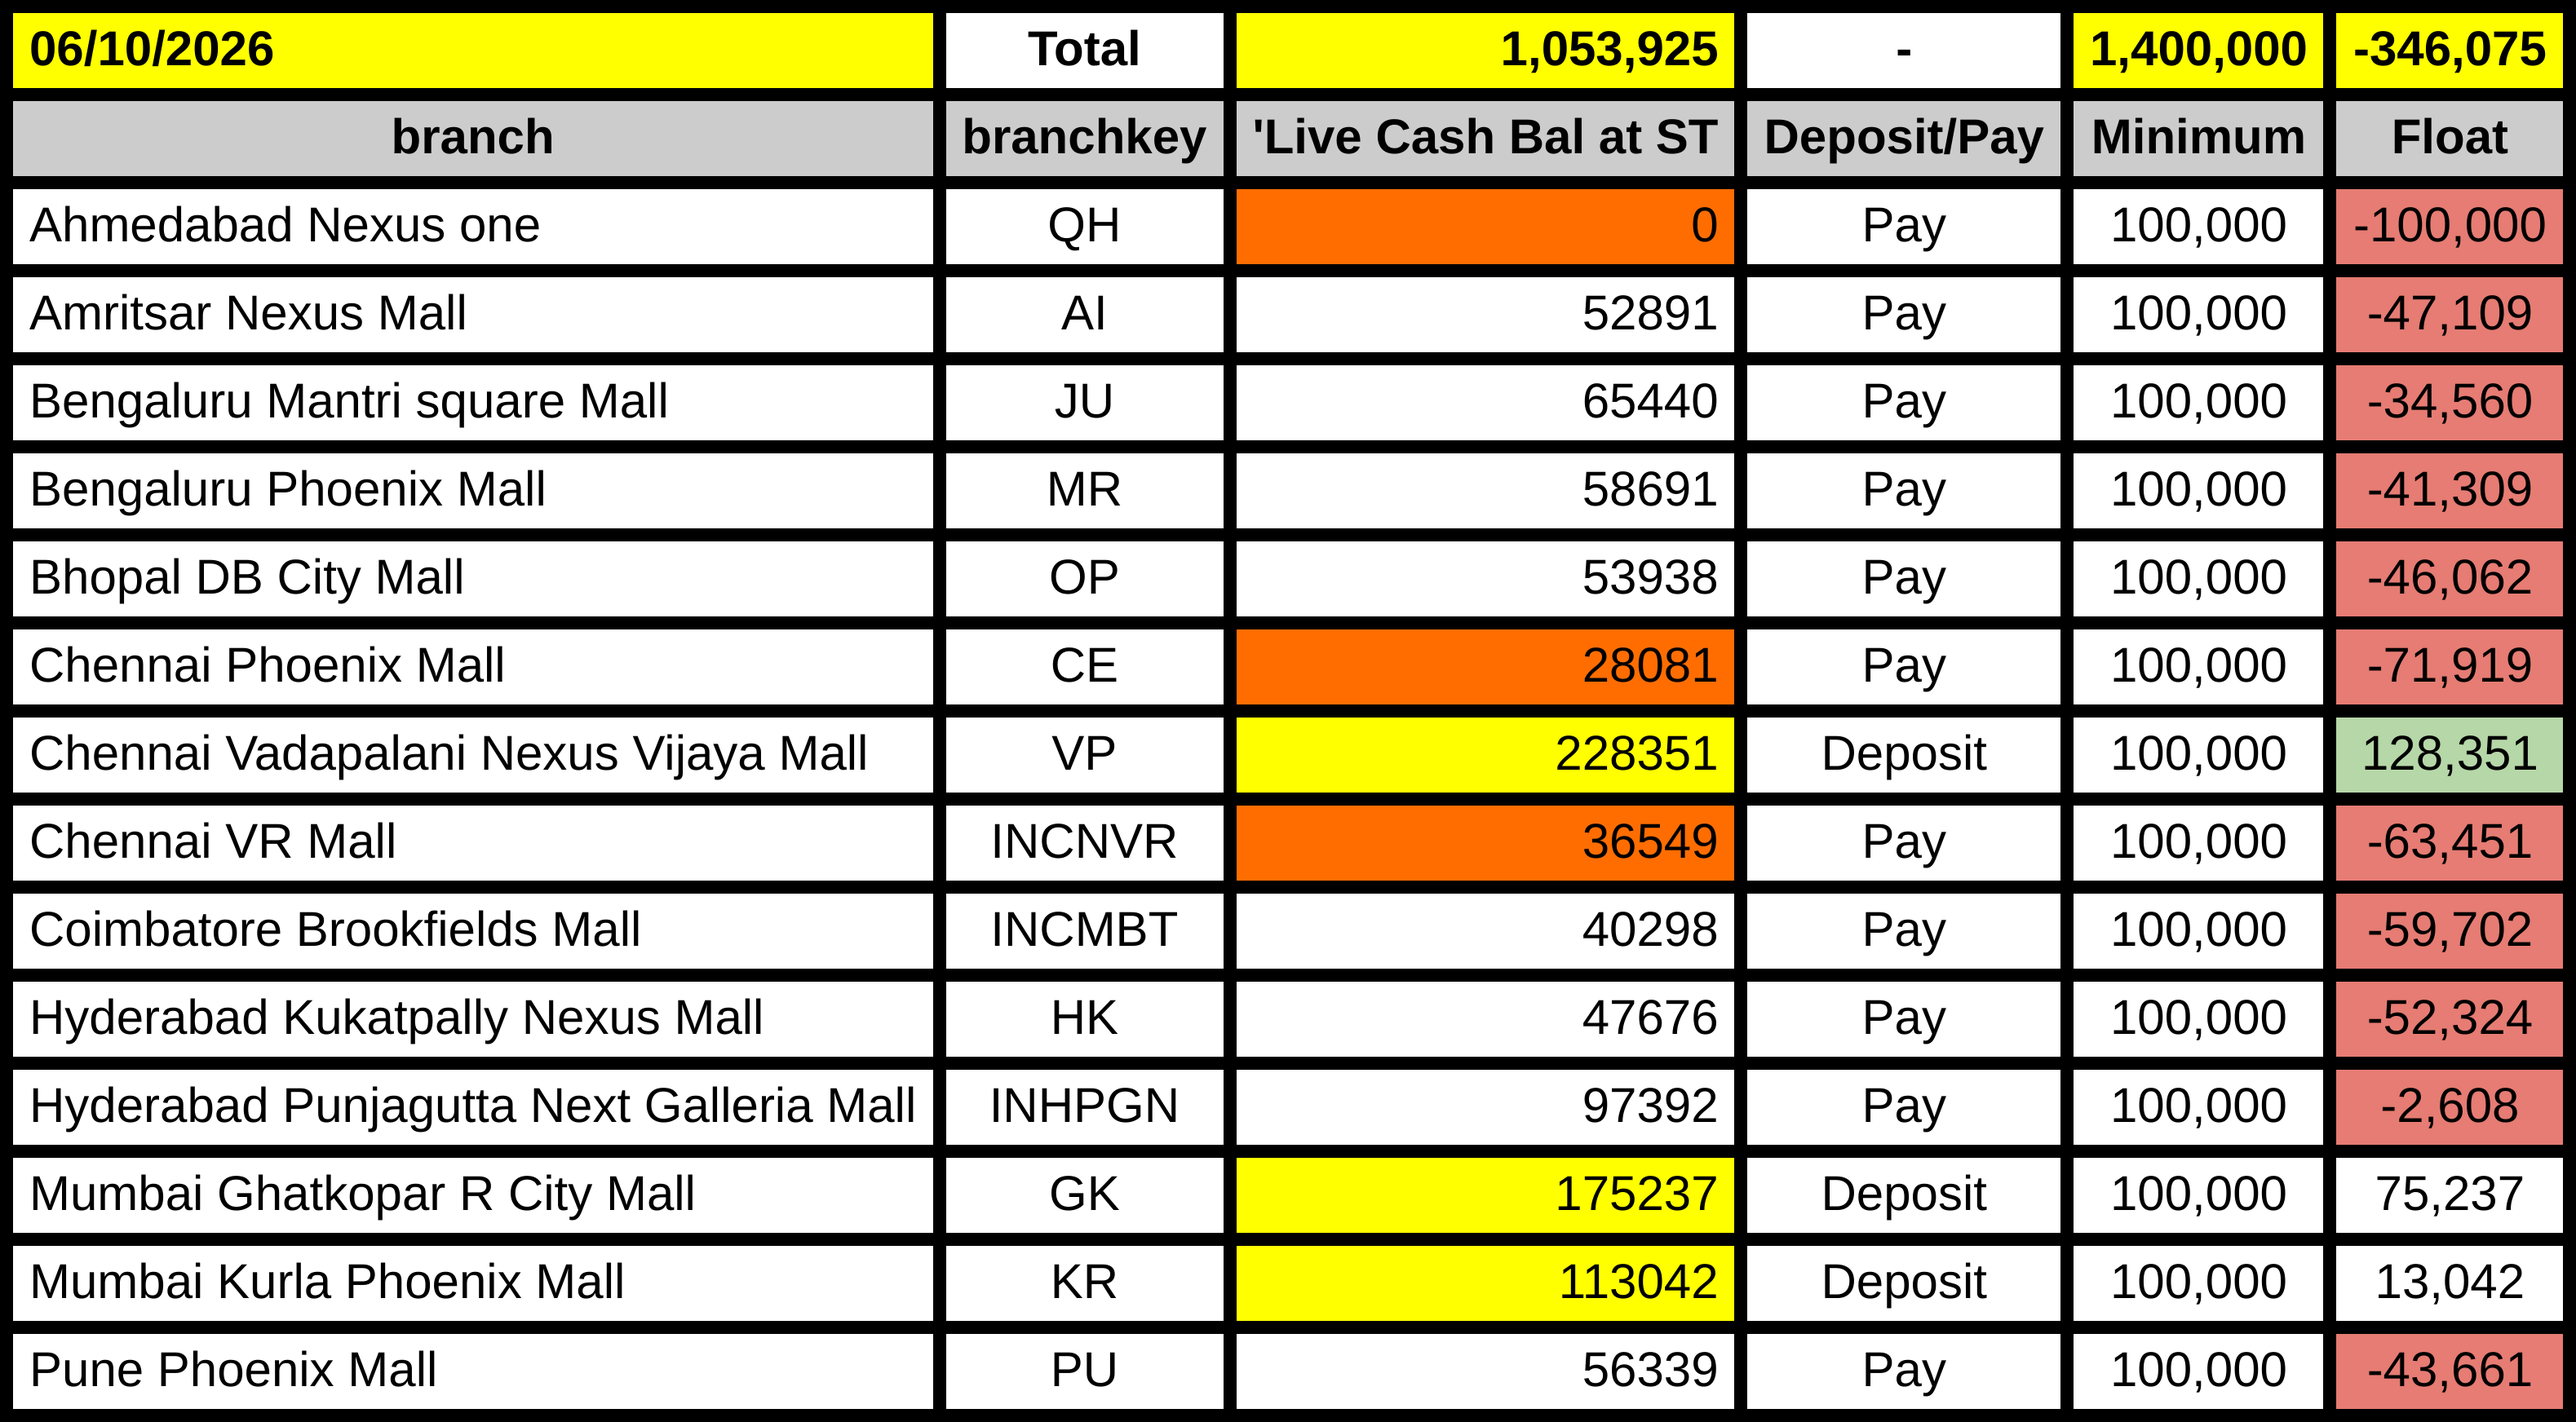
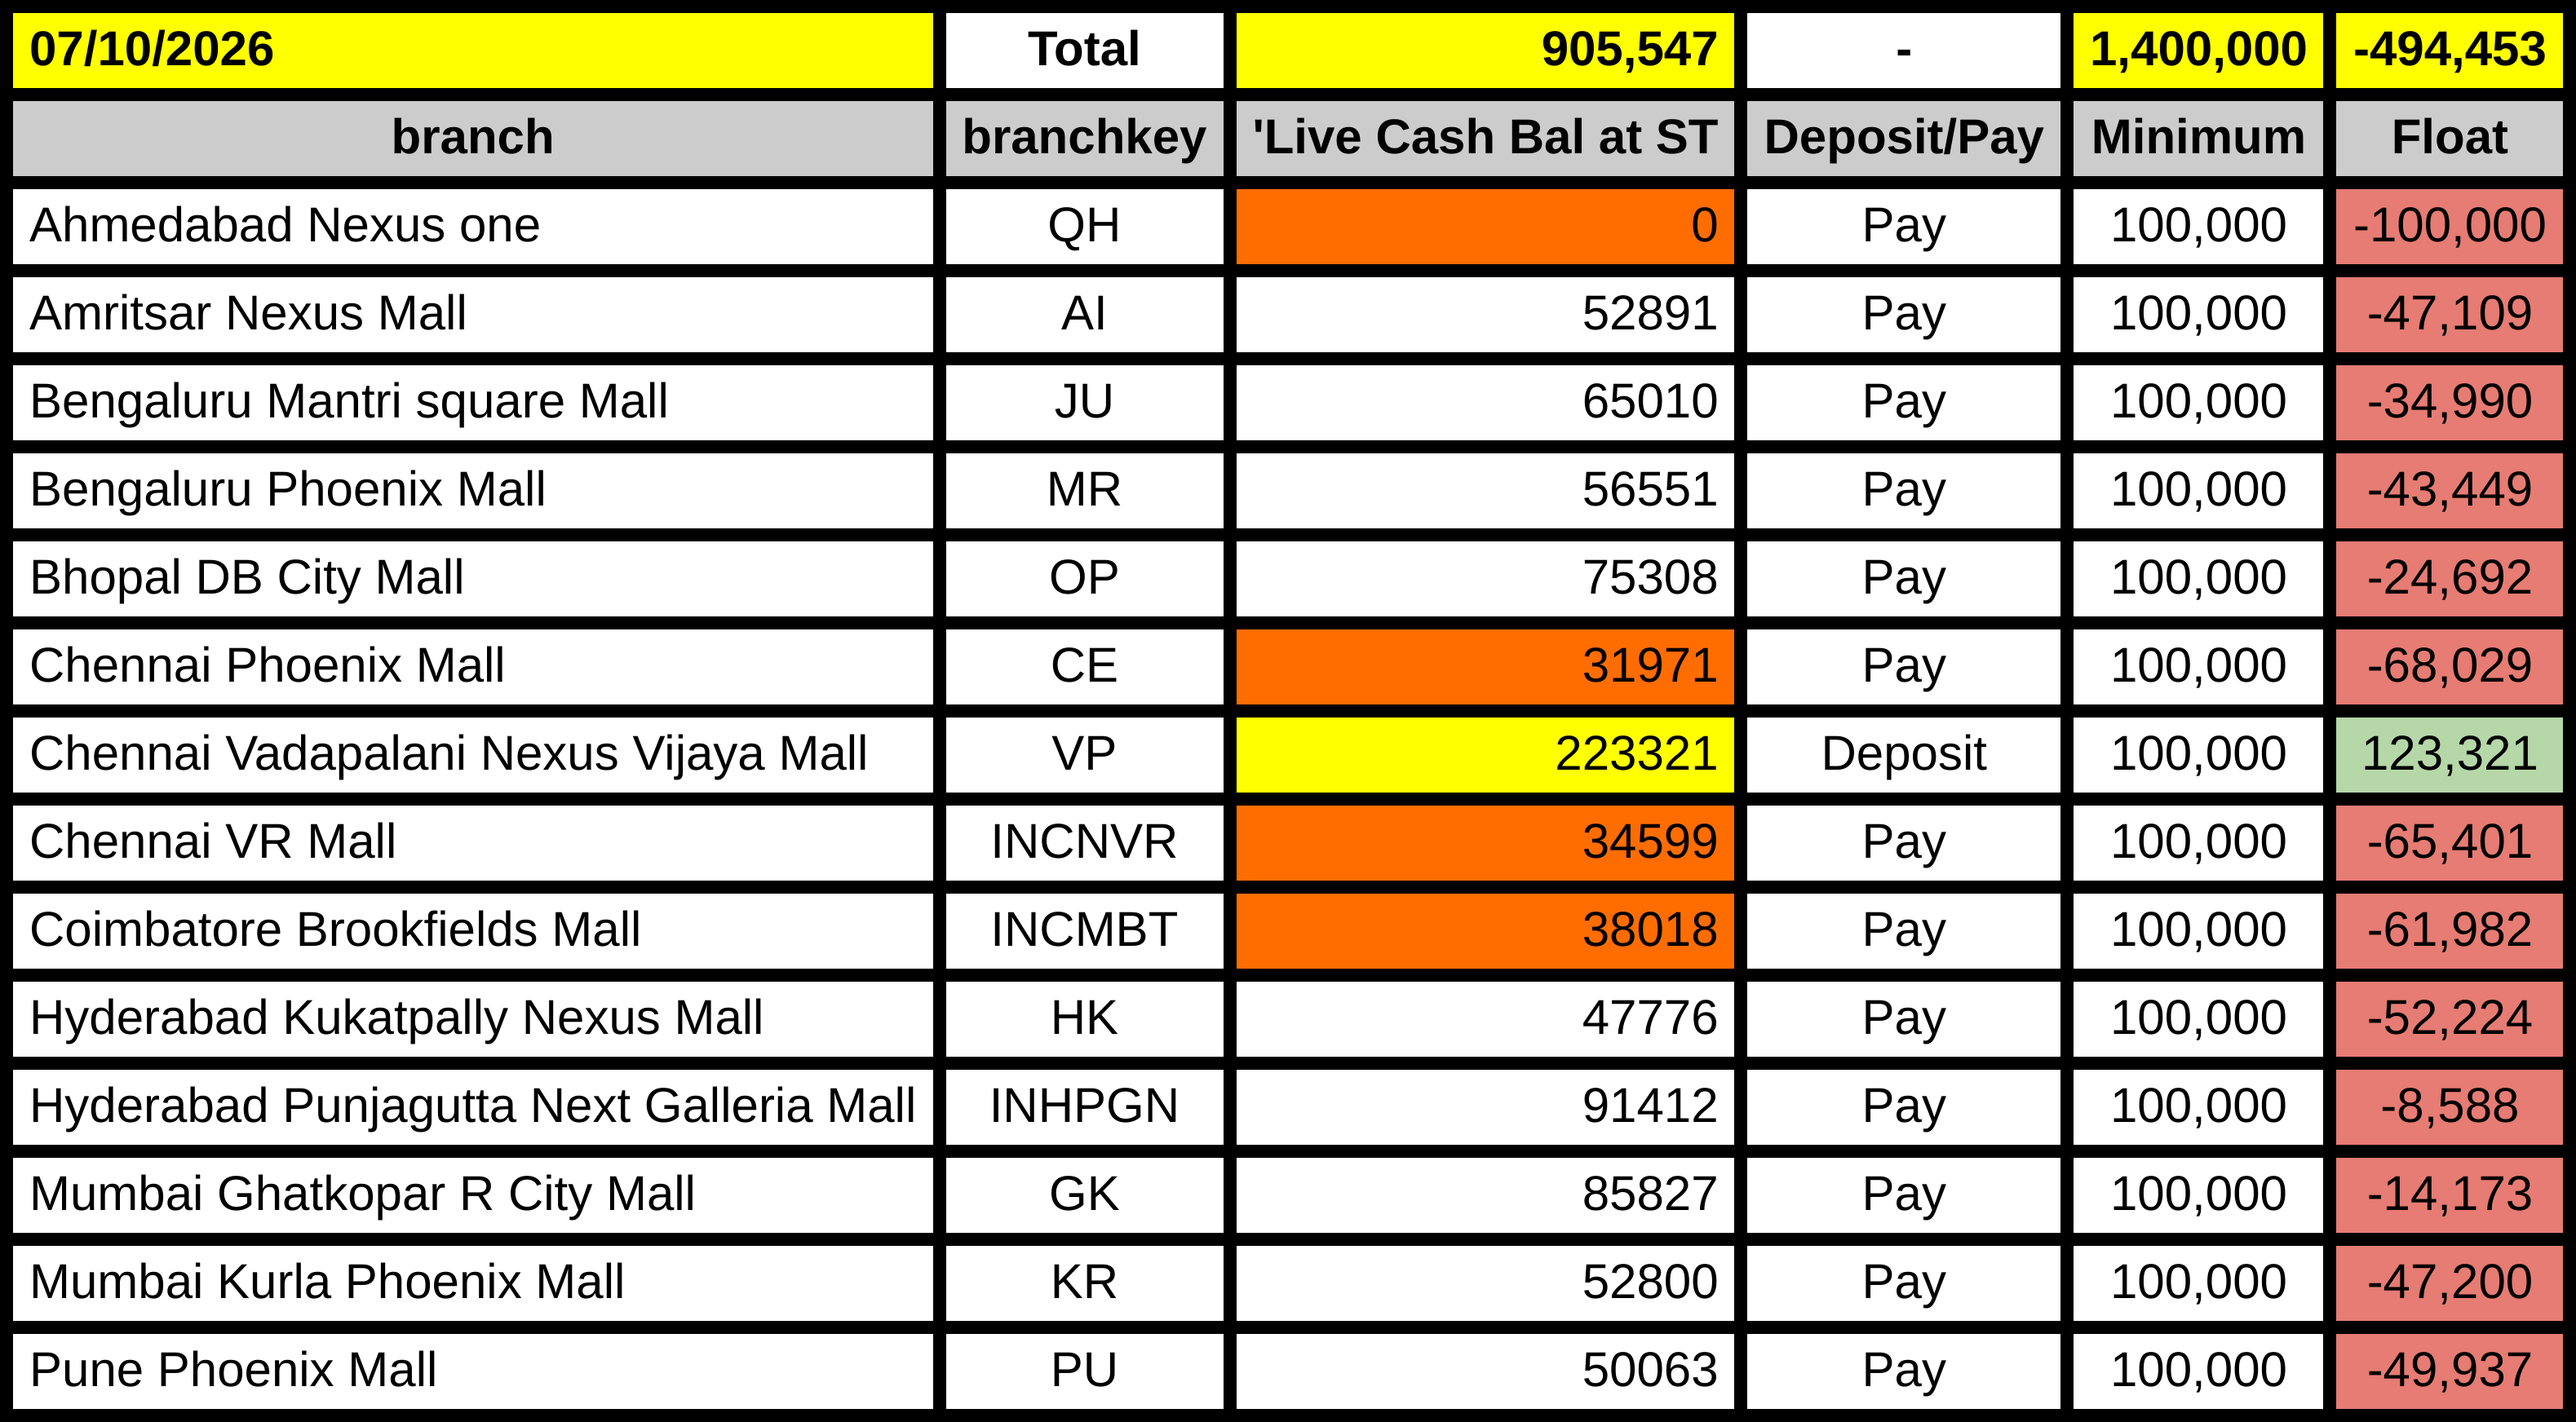
deploy: 1eb6ce62876c9d41067b4594acfaffc291ee4c8b

diff --git a/table.html b/table.html
@@ -21,7 +21,7 @@
           font-family: Arial, sans-serif;
           font-size: 30px;
           white-space: nowrap;
-        ">06/10/2026</td>
+        ">07/10/2026</td>
       
         <td style="
           background-color: #ffffff;
@@ -49,7 +49,7 @@
           font-family: Arial, sans-serif;
           font-size: 30px;
           white-space: nowrap;
-        ">1,053,925</td>
+        ">905,547</td>
       
         <td style="
           background-color: #ffffff;
@@ -91,7 +91,7 @@
           font-family: Arial, sans-serif;
           font-size: 30px;
           white-space: nowrap;
-        ">-346,075</td>
+        ">-494,453</td>
       </tr><tr>
         <td style="
           background-color: #cccccc;
@@ -385,7 +385,7 @@
           font-family: Arial, sans-serif;
           font-size: 30px;
           white-space: nowrap;
-        ">65440</td>
+        ">65010</td>
       
         <td style="
           background-color: #ffffff;
@@ -427,7 +427,7 @@
           font-family: Arial, sans-serif;
           font-size: 30px;
           white-space: nowrap;
-        ">-34,560</td>
+        ">-34,990</td>
       </tr><tr>
         <td style="
           background-color: #ffffff;
@@ -469,7 +469,7 @@
           font-family: Arial, sans-serif;
           font-size: 30px;
           white-space: nowrap;
-        ">58691</td>
+        ">56551</td>
       
         <td style="
           background-color: #ffffff;
@@ -511,7 +511,7 @@
           font-family: Arial, sans-serif;
           font-size: 30px;
           white-space: nowrap;
-        ">-41,309</td>
+        ">-43,449</td>
       </tr><tr>
         <td style="
           background-color: #ffffff;
@@ -553,7 +553,7 @@
           font-family: Arial, sans-serif;
           font-size: 30px;
           white-space: nowrap;
-        ">53938</td>
+        ">75308</td>
       
         <td style="
           background-color: #ffffff;
@@ -595,7 +595,7 @@
           font-family: Arial, sans-serif;
           font-size: 30px;
           white-space: nowrap;
-        ">-46,062</td>
+        ">-24,692</td>
       </tr><tr>
         <td style="
           background-color: #ffffff;
@@ -637,7 +637,7 @@
           font-family: Arial, sans-serif;
           font-size: 30px;
           white-space: nowrap;
-        ">28081</td>
+        ">31971</td>
       
         <td style="
           background-color: #ffffff;
@@ -679,7 +679,7 @@
           font-family: Arial, sans-serif;
           font-size: 30px;
           white-space: nowrap;
-        ">-71,919</td>
+        ">-68,029</td>
       </tr><tr>
         <td style="
           background-color: #ffffff;
@@ -721,7 +721,7 @@
           font-family: Arial, sans-serif;
           font-size: 30px;
           white-space: nowrap;
-        ">228351</td>
+        ">223321</td>
       
         <td style="
           background-color: #ffffff;
@@ -763,7 +763,7 @@
           font-family: Arial, sans-serif;
           font-size: 30px;
           white-space: nowrap;
-        ">128,351</td>
+        ">123,321</td>
       </tr><tr>
         <td style="
           background-color: #ffffff;
@@ -805,7 +805,7 @@
           font-family: Arial, sans-serif;
           font-size: 30px;
           white-space: nowrap;
-        ">36549</td>
+        ">34599</td>
       
         <td style="
           background-color: #ffffff;
@@ -847,7 +847,7 @@
           font-family: Arial, sans-serif;
           font-size: 30px;
           white-space: nowrap;
-        ">-63,451</td>
+        ">-65,401</td>
       </tr><tr>
         <td style="
           background-color: #ffffff;
@@ -878,7 +878,7 @@
         ">INCMBT</td>
       
         <td style="
-          background-color: #ffffff;
+          background-color: #ff6d01;
           color: #000000;
           font-weight: normal;
           font-style: normal;
@@ -889,7 +889,7 @@
           font-family: Arial, sans-serif;
           font-size: 30px;
           white-space: nowrap;
-        ">40298</td>
+        ">38018</td>
       
         <td style="
           background-color: #ffffff;
@@ -931,7 +931,7 @@
           font-family: Arial, sans-serif;
           font-size: 30px;
           white-space: nowrap;
-        ">-59,702</td>
+        ">-61,982</td>
       </tr><tr>
         <td style="
           background-color: #ffffff;
@@ -973,7 +973,7 @@
           font-family: Arial, sans-serif;
           font-size: 30px;
           white-space: nowrap;
-        ">47676</td>
+        ">47776</td>
       
         <td style="
           background-color: #ffffff;
@@ -1015,7 +1015,7 @@
           font-family: Arial, sans-serif;
           font-size: 30px;
           white-space: nowrap;
-        ">-52,324</td>
+        ">-52,224</td>
       </tr><tr>
         <td style="
           background-color: #ffffff;
@@ -1057,7 +1057,7 @@
           font-family: Arial, sans-serif;
           font-size: 30px;
           white-space: nowrap;
-        ">97392</td>
+        ">91412</td>
       
         <td style="
           background-color: #ffffff;
@@ -1099,7 +1099,7 @@
           font-family: Arial, sans-serif;
           font-size: 30px;
           white-space: nowrap;
-        ">-2,608</td>
+        ">-8,588</td>
       </tr><tr>
         <td style="
           background-color: #ffffff;
@@ -1130,7 +1130,7 @@
         ">GK</td>
       
         <td style="
-          background-color: #ffff00;
+          background-color: #ffffff;
           color: #000000;
           font-weight: normal;
           font-style: normal;
@@ -1141,7 +1141,7 @@
           font-family: Arial, sans-serif;
           font-size: 30px;
           white-space: nowrap;
-        ">175237</td>
+        ">85827</td>
       
         <td style="
           background-color: #ffffff;
@@ -1155,7 +1155,7 @@
           font-family: Arial, sans-serif;
           font-size: 30px;
           white-space: nowrap;
-        ">Deposit</td>
+        ">Pay</td>
       
         <td style="
           background-color: #ffffff;
@@ -1172,7 +1172,7 @@
         ">100,000</td>
       
         <td style="
-          background-color: #ffffff;
+          background-color: #e67c73;
           color: #000000;
           font-weight: normal;
           font-style: normal;
@@ -1183,7 +1183,7 @@
           font-family: Arial, sans-serif;
           font-size: 30px;
           white-space: nowrap;
-        ">75,237</td>
+        ">-14,173</td>
       </tr><tr>
         <td style="
           background-color: #ffffff;
@@ -1214,7 +1214,7 @@
         ">KR</td>
       
         <td style="
-          background-color: #ffff00;
+          background-color: #ffffff;
           color: #000000;
           font-weight: normal;
           font-style: normal;
@@ -1225,7 +1225,7 @@
           font-family: Arial, sans-serif;
           font-size: 30px;
           white-space: nowrap;
-        ">113042</td>
+        ">52800</td>
       
         <td style="
           background-color: #ffffff;
@@ -1239,7 +1239,7 @@
           font-family: Arial, sans-serif;
           font-size: 30px;
           white-space: nowrap;
-        ">Deposit</td>
+        ">Pay</td>
       
         <td style="
           background-color: #ffffff;
@@ -1256,7 +1256,7 @@
         ">100,000</td>
       
         <td style="
-          background-color: #ffffff;
+          background-color: #e67c73;
           color: #000000;
           font-weight: normal;
           font-style: normal;
@@ -1267,7 +1267,7 @@
           font-family: Arial, sans-serif;
           font-size: 30px;
           white-space: nowrap;
-        ">13,042</td>
+        ">-47,200</td>
       </tr><tr>
         <td style="
           background-color: #ffffff;
@@ -1309,7 +1309,7 @@
           font-family: Arial, sans-serif;
           font-size: 30px;
           white-space: nowrap;
-        ">56339</td>
+        ">50063</td>
       
         <td style="
           background-color: #ffffff;
@@ -1351,7 +1351,7 @@
           font-family: Arial, sans-serif;
           font-size: 30px;
           white-space: nowrap;
-        ">-43,661</td>
+        ">-49,937</td>
       </tr>
   </table>
 </body>
